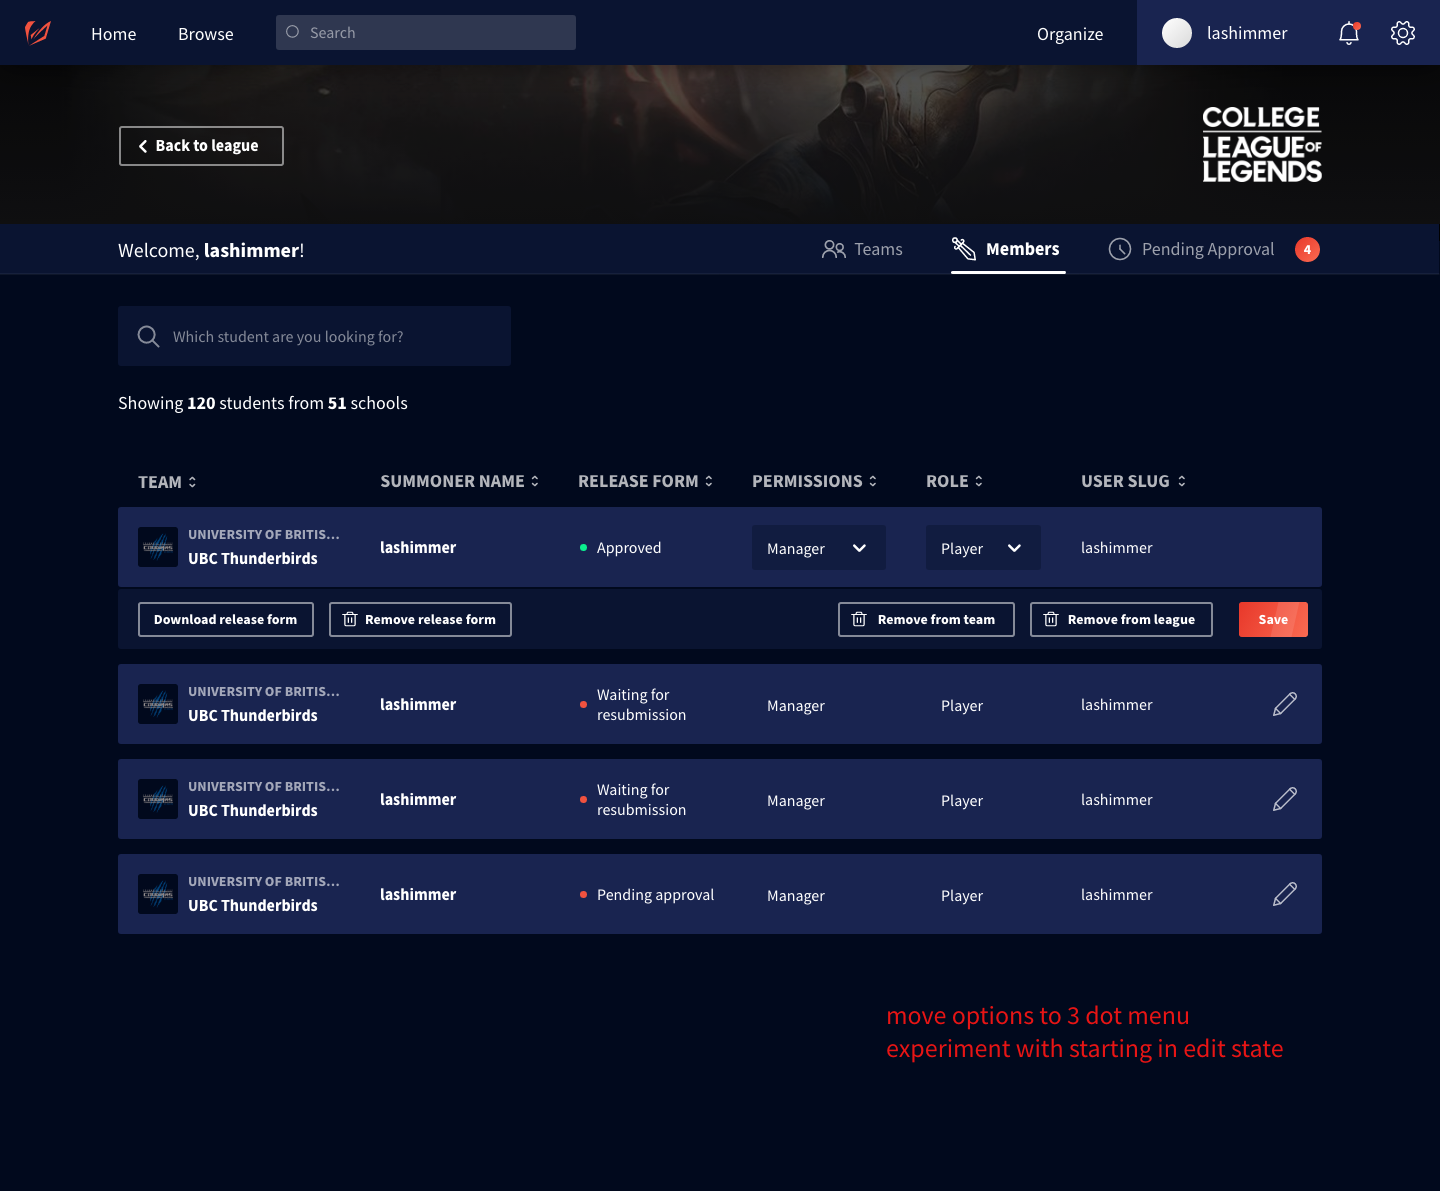
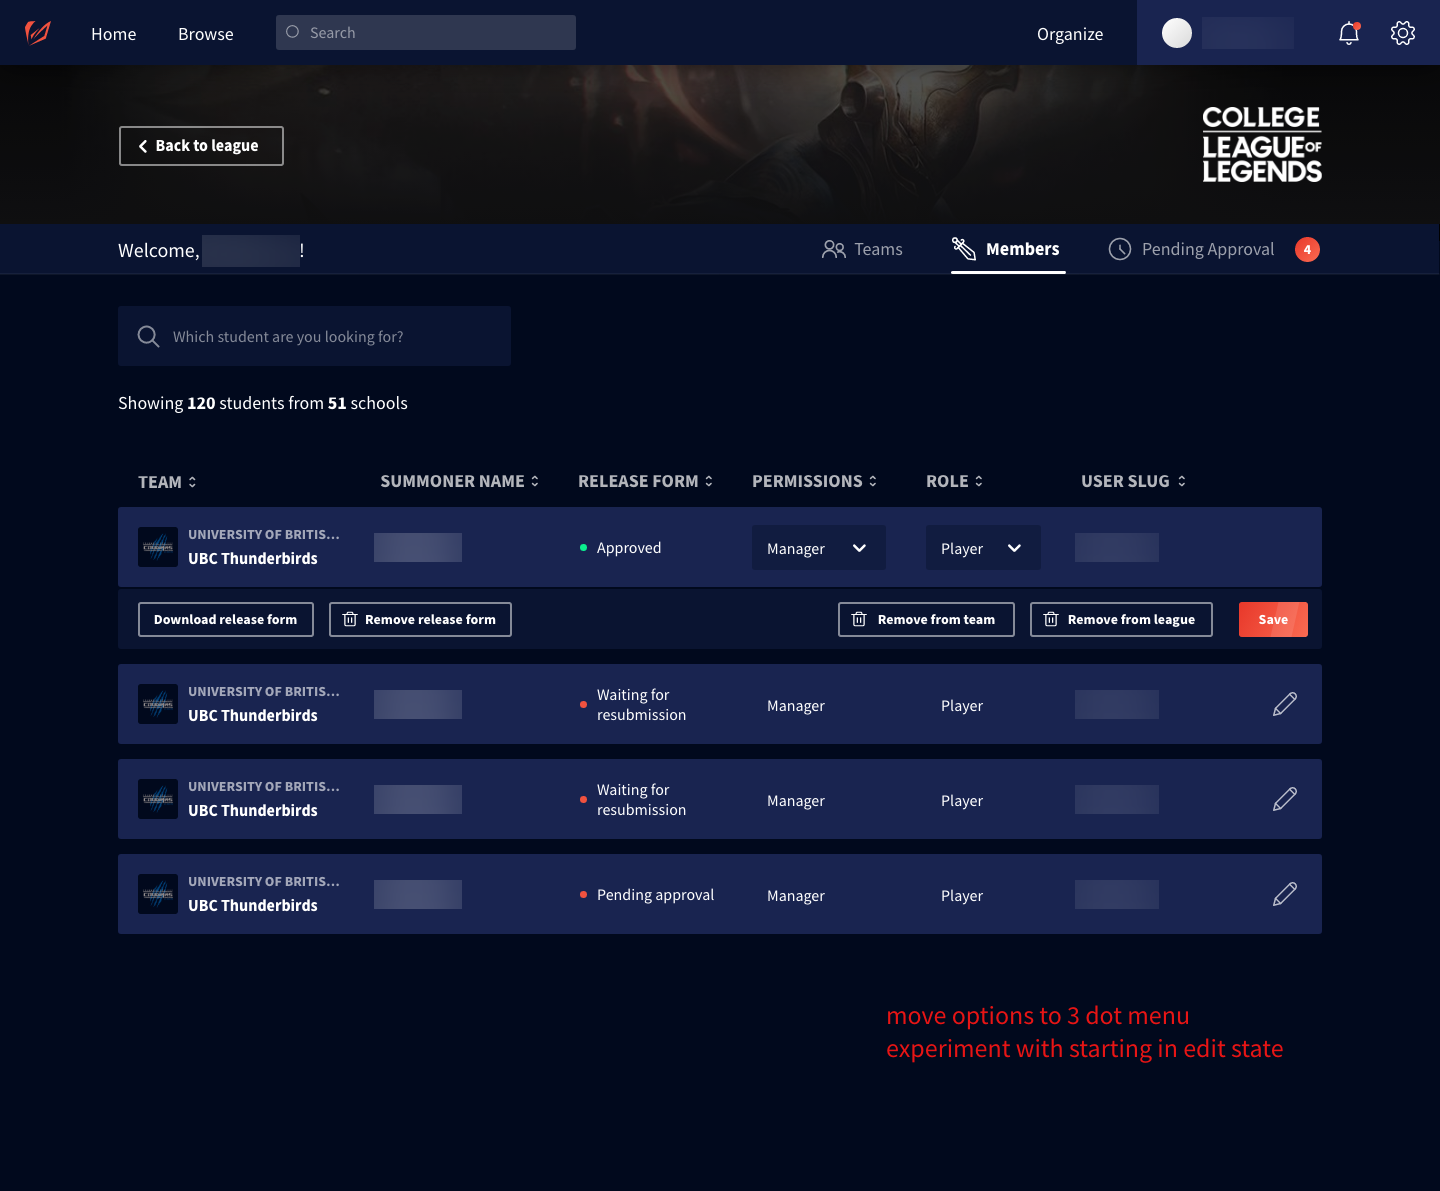
Blur personal data and crop screenshots across case studies
Privacy: blurred real names and job titles, usernames, gamer handles and
Discord tags, a Google account name, and an internal Drive link in place;
deleted four unused screenshots that exposed real names or account
balances. Readability: added top crops for the FIFA final designs and the
tallest Portals screens, split the Comentto audit into three rows, and
swapped them in with accurate alt text and captions.

diff --git a/portals.html b/portals.html
@@ -142,7 +142,7 @@
 
       <div class="cs-carousel" data-carousel>
         <div class="cs-carousel-track">
-          <img src="/images/case-studies/portals/wireframe-hero-banner.png" alt="Hero banner spec with desktop and mobile variants and content rules" loading="lazy" />
+          <img src="/images/case-studies/portals/wireframe-hero-banner-top.png" alt="Hero banner spec: desktop and mobile hero variants, logo sizing rules, and title rules including truncation with a tooltip" loading="lazy" />
           <img src="/images/case-studies/portals/wireframe-onboarding.png" alt="Onboarding steps spec: 'Why compete?' cards, limited to three steps" loading="lazy" />
           <img src="/images/case-studies/portals/wireframe-game-selector.png" alt="Game selector spec: selectable cards on desktop, a dropdown sheet on mobile" loading="lazy" />
           <img src="/images/case-studies/portals/wireframe-awards.png" alt="Awards spec with prize image, value, button and fallback rules" loading="lazy" />
@@ -155,8 +155,8 @@
 
       <div class="cs-carousel" data-carousel>
         <div class="cs-carousel-track">
-          <img src="/images/case-studies/portals/mse-wireframe-home.png" alt="Wireframe of the Monumental Sports &amp; Entertainment portal home page, with the spec hero and placeholder cards" loading="lazy" />
-          <img src="/images/case-studies/portals/mse-home-desktop.png" alt="Monumental Sports &amp; Entertainment portal home page, fully branded" loading="lazy" />
+          <img src="/images/case-studies/portals/mse-wireframe-home-top.png" alt="Wireframe of the top of the Monumental Sports &amp; Entertainment portal home page: the spec hero, navigation, an intro card and three placeholder stat cards" loading="lazy" />
+          <img src="/images/case-studies/portals/mse-home-desktop-top.png" alt="Top of the Monumental Sports &amp; Entertainment portal home page, fully branded: hero, red navigation, a 'Leading the way' intro card and three stats" loading="lazy" />
         </div>
       </div>
       <p class="cs-caption">The Monumental Sports &amp; Entertainment portal, from wireframe to final design. The wireframe shares the hero and card structure of the specs above; the final applies MSE's brand.</p>
@@ -177,13 +177,14 @@
       <div class="cs-carousel" data-carousel>
         <div class="cs-carousel-track">
           <img src="/images/case-studies/portals/ea-madden-about-desktop.png" alt="EA Madden NFL 21 Championship Series portal About page, under the Battlefy bar with the branded hero and navigation" loading="lazy" />
-          <img src="/images/case-studies/portals/riot-grand-prix-desktop.png" alt="Riot Grand Prix College Club Series portal, featuring Legends of Runeterra as game of the month, with a game selector" loading="lazy" />
-          <img src="/images/case-studies/portals/riot-influencers-meet-desktop.png" alt="Riot Grand Prix Partner Series 'Meet the influencers' page: influencer profiles with a game filter and name search" loading="lazy" />
-          <img src="/images/case-studies/portals/bo-portal-desktop.png" alt="Bang &amp; Olufsen Portal Series with prize breakdown and a region switch" loading="lazy" />
+          <img src="/images/case-studies/portals/riot-grand-prix-desktop-top.png" alt="Riot Grand Prix College Club Series portal, featuring Legends of Runeterra as game of the month, with 'Why compete?' cards and a game selector" loading="lazy" />
+          <img src="/images/case-studies/portals/riot-influencers-meet-desktop-top.png" alt="Riot Grand Prix Partner Series 'Meet the influencers' page: influencer profiles with a game filter and name search" loading="lazy" />
+          <img src="/images/case-studies/portals/bo-portal-desktop-top.png" alt="Bang &amp; Olufsen Portal Series with a language picker, prize pool and prize breakdown, and a North America/Europe region switch" loading="lazy" />
+          <img src="/images/case-studies/portals/mlb-the-show-desktop-paths.png" alt="MLB The Show 21 portal 'Choose your paths' section: Competitive Circuits qualifiers leading to a grand final and the World Series Finals, with casual Exhibition Tournaments below" loading="lazy" />
           <img src="/images/case-studies/portals/clol-portal-teams.png" alt="College League of Legends 2021 teams directory with regional conference filters, under the same Battlefy bar and league navigation" loading="lazy" />
         </div>
       </div>
-      <p class="cs-caption">High-fidelity mockups for EA Madden Championship Series, Riot Grand Prix College Club Series and Partner Series, Bang &amp; Olufsen and College League of Legends. Each puts the client's brand on the same Battlefy bar, hero and portal navigation.</p>
+      <p class="cs-caption">High-fidelity mockups for EA Madden Championship Series, Riot Grand Prix College Club Series and Partner Series, Bang &amp; Olufsen, MLB The Show and College League of Legends. Each puts the client's brand on the same Battlefy bar, hero and portal navigation; the MLB The Show view shows its two paths, competitive and casual.</p>
     </section>
 
     <!-- ============================================

diff --git a/fifa.html b/fifa.html
@@ -111,10 +111,10 @@
 
       <div class="cs-carousel" data-carousel>
         <div class="cs-carousel-track">
-          <img src="/images/case-studies/fifa/home-desktop.png" alt="Final design, desktop: default home with latest videos, news and the What's happening grid" loading="lazy" />
-          <img src="/images/case-studies/fifa/home-live-desktop.png" alt="Final design, desktop: live match with stream and score at the top" loading="lazy" />
-          <img src="/images/case-studies/fifa/home-live-stats-desktop.png" alt="Final design, desktop: live match with the match facts panel open" loading="lazy" />
-          <img src="/images/case-studies/fifa/home-pnp-desktop.png" alt="Final design, desktop: picture-in-picture player floating over the content grid" loading="lazy" />
+          <img src="/images/case-studies/fifa/home-desktop-top.png" alt="Final design, desktop: default home with latest videos and news at the top and the first row of the What's happening grid" loading="lazy" />
+          <img src="/images/case-studies/fifa/home-live-desktop-top.png" alt="Final design, desktop: live match with stream and score at the top" loading="lazy" />
+          <img src="/images/case-studies/fifa/home-live-stats-desktop-top.png" alt="Final design, desktop: live match with the match facts panel open" loading="lazy" />
+          <img src="/images/case-studies/fifa/home-pnp-desktop-top.png" alt="Final design, desktop: picture-in-picture player floating over the content grid" loading="lazy" />
         </div>
       </div>
       <p class="cs-caption">Final design: default, live, live with match facts, and picture-in-picture.</p>
@@ -139,14 +139,14 @@
       <figure class="cs-video">
         <div class="cs-desktop-wrap">
           <div class="cs-desktop-bar"><span></span><span></span><span></span></div>
-          <img src="/images/case-studies/fifa/internal-nav-desktop.png" alt="The hub's desktop navigation bar in three passes: container, wireframe, and final mockup with Watch, Events, Rewards, News and Standings, and region, team and coin controls on the right" loading="lazy" />
+          <img src="/images/case-studies/fifa/internal-nav-desktop-mockup.png" alt="The hub's desktop navigation bar, final mockup: Watch, Events, Rewards, News and Standings, with region, team and coin controls on the right" loading="lazy" />
         </div>
       </figure>
-      <p class="cs-caption">The hub's desktop bar from container to wireframe to final mockup, with region, team and coins on the right.</p>
+      <p class="cs-caption">The hub's final desktop bar: the primary paths on the left, and region, team and coins together on the right.</p>
 
       <div class="cs-carousel" data-carousel>
         <div class="cs-carousel-track">
-          <img src="/images/case-studies/fifa/home-select-team-desktop.png" alt="Favorite team picker: Become a fan and get access to exclusive content from your team" loading="lazy" />
+          <img src="/images/case-studies/fifa/home-select-team-desktop-top.png" alt="Favorite team picker: Become a fan and get access to exclusive content from your team" loading="lazy" />
           <img src="/images/case-studies/fifa/internal-nav-open-mobile.png" alt="Mobile navigation open, with region, team and coins in their own row above links labeled VODs, Events, Rewards, News and Leaderboard" loading="lazy" />
         </div>
       </div>

diff --git a/comentto.html b/comentto.html
@@ -124,10 +124,12 @@
 
       <div class="cs-carousel" data-carousel>
         <div class="cs-carousel-track">
-          <img src="/images/case-studies/comentto/img-97.png" alt="Annotated usability analysis of the original kiosk app, with each screen marked up with problems and suggestions" loading="lazy" />
+          <img src="/images/case-studies/comentto/img-97-row1.png" alt="Usability analysis, first row: the idle screen, which had no way out, marked up with suggested Exit and Refresh buttons, a welcome screen with a bare progress bar and a Begin button that moves, beside a thumb-reach map, and a single-choice question whose options look like text fields, beside an eye-tracking heat map" loading="lazy" />
+          <img src="/images/case-studies/comentto/img-97-row2.png" alt="Usability analysis, second row: a multiple-choice question whose options look the same as single choice, an open-text question with no character limit, beside on-screen keyboards and a note to focus the field automatically, and rating icons such as hearts and thumbs-up that suggest a feeling" loading="lazy" />
+          <img src="/images/case-studies/comentto/img-97-row3.png" alt="Usability analysis, third row: a 0 to 10 scale whose buttons wrap onto a second row, a birthday question with only a calendar picker, and a thank-you screen in light type" loading="lazy" />
         </div>
       </div>
-      <p class="cs-caption">The annotated analysis of the original kiosk app (in Portuguese), including a thumb-reach map for touch screens.</p>
+      <p class="cs-caption">The annotated analysis of the original kiosk app (in Portuguese), in three rows: the idle, welcome and single-choice screens with a thumb-reach map and an eye-tracking heat map; multiple choice, open text and rating icons; and the 0–10 scale, birthday and thank-you screens.</p>
 
       <div class="cs-strategy --bg-presence">
         <p class="cs-strategy-label">The approach</p>
